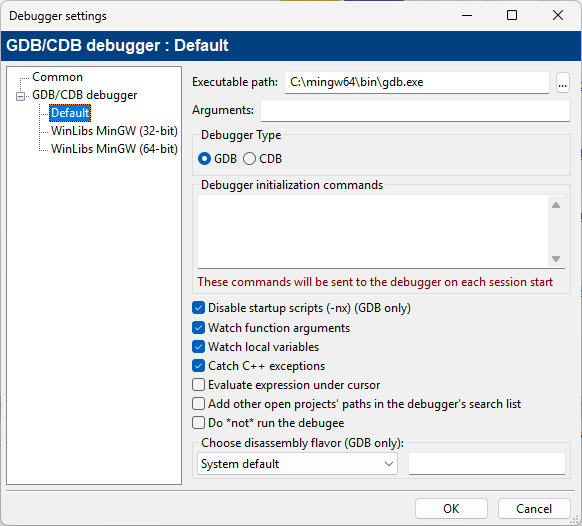
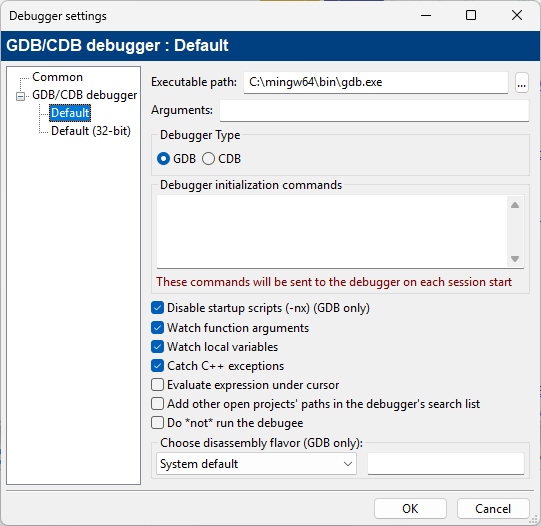
Updating README.

diff --git a/README.md b/README.md
@@ -6,11 +6,11 @@
 
 [DreamSDK](https://dreamsdk.org "DreamSDK") is a modern, ready-to-use environment for the [Sega Dreamcast](https://en.wikipedia.org/wiki/Dreamcast) development, designed for the **Microsoft Windows** platform. It's a package composed by a lot of pre-compiled tools; and Code::Blocks is a nice IDE which unleash the power of **DreamSDK**.
 
-**This repository hold a special version of the official Code::Blocks 25.03 stable release modified for adding full support of DreamSDK.**
+**This repository hold a special edition of the official Code::Blocks 25.03 stable release modified for adding full support of DreamSDK.**
 
-If you are interested about Code::Blocks but not in Sega Dreamcast development using DreamSDK, you may use the official Code::Blocks release then. But if you are interested in Sega Dreamcast development using DreamSDK AND regular development, you can use this special edition of Code::Blocks without any issue, as the changes performed in this fork are not destructive, they only applies in DreamSDK profile.
+If you are interested about Code::Blocks but not in Sega Dreamcast development using DreamSDK, you may use the official Code::Blocks release then. But if you are interested in Sega Dreamcast development using DreamSDK, and at the same time, you are interested in regular development, you can use this special edition of Code::Blocks without any issue, as the changes performed in this fork are not destructive, they only applies in DreamSDK profile.
 
-Notables changes of this special release of **Code::Blocks** includes:
+Notables changes of this special edition of **Code::Blocks** includes:
 
 * New compiler/options file (`dc-gcc`) which specify the `GNU GCC Compiler for Sega Dreamcast` compiler.
 * The `compiler` and `debugger` plugins have been patched to run the loader (i.e. `dc-tool`) before running the target.
@@ -30,8 +30,10 @@ In summary, the goal of this repository is to generate the following packages:
 - `.\packager\dist\codeblocks-25.03-dreamsdk-addon-bin-x86.7z` for 32-bit;
 - `.\packager\dist\codeblocks-25.03-dreamsdk-addon-bin-x64.7z` for 64-bit.
 
-This package will be embedded in the **Code::Blocks Patcher for DreamSDK** (`codeblocks-patcher.exe`).
+These packages will be embedded in the **Code::Blocks Patcher for DreamSDK** (`codeblocks-patcher.exe`).
 This patcher is available in the [Code::Blocks Patcher for DreamSDK](https://github.com/dreamsdk/codeblocks-patcher) repository.
+
+This documents assumes that you're using a 64-bit Windows. 64-bit Windows can build 32-bit binaries as well.
 
 ## Prerequisites
 
@@ -49,7 +51,7 @@ These **are not** provided in this repository but could be easily downloaded:
 - [7-Zip](http://www.7-zip.org).
 - [Boost 1.87.0](http://www.boost.org/users/history/version_1_87_0.html).
 - [Code::Blocks](https://www.codeblocks.org) (**yes, for building Code::Blocks you will need Code::Blocks**).
-- [DreamSDK](https://www.dreamsdk.org) (this is not required for building Code::Blocks but will be for testing the special release that we will build using this repository).
+- [DreamSDK](https://www.dreamsdk.org) (this is not required for building Code::Blocks but will be for testing the special edition that we will build using this repository).
 
 ### Install WinLibs toolchains
 
@@ -61,15 +63,16 @@ Just unzip the 2 WinLibs toolchains in the drive root, usually `C:\`:
 
 1. Make sure `zip` and `upx` are available in your `PATH` variable.
 2. Install [7-Zip](http://www.7-zip.org) using the default settings and make sure `7z` is available in your `PATH` variable.
-3. Download [Code::Blocks](https://www.codeblocks.org) without the embedded compiler, as we will use our own. Install it with the default settings. It's easiest to install Code::Blocks in 64-bit if you plan to compile the 64-bit version (i.e., `codeblocks-25.03-setup.exe`); do the same for the 32-bit version (i.e., `codeblocks-25.03-32bit-setup.exe`), although it's not required. This document will assume you'll follow this rule.
-4. Install [DreamSDK](https://www.dreamsdk.org) using the default settings.
+3. Download [Code::Blocks](https://www.codeblocks.org) without the embedded compiler, as we will use our own (i.e., `codeblocks-25.03-setup.exe` for 64-bit or `codeblocks-25.03-32bit-setup.exe` for 32-bit). Install it with the default settings.
+4. Install [DreamSDK](https://www.dreamsdk.org) using the default settings (i.e., it needs to be installed in `C:\DreamSDK`).
 
 ### Building wxMSW
 
 After installing all the prerequisites, you need to build **wxWidgets for Windows**, i.e. **wxMSW**. You only need to do that once; fortunately because this process is really very long.
 
-1. Open the `.\wxMSW\build.ini` file and adapt it as needed.
-2. Double-click on the `.\wxMSW\build.cmd` file.
+1. Copy the `.\wxMSW\build.template.ini` and name it `build.ini`.
+2. Open the `.\wxMSW\build.ini` file and adapt it as needed.
+3. Double-click on the `.\wxMSW\build.cmd` file.
 
 The `.\wxMSW\bin` directory will be created, that will contains both `debug` and `release` wxWidgets for Windows builds, both on 32-bit and 64-bit flavours.
 
@@ -77,7 +80,7 @@ The `.\wxMSW\bin` directory will be created, that will contains both `debug` and
 
 Boost is used for some plugins in Code::Blocks, for example for the [Nassi–Shneiderman](https://wiki.codeblocks.org/index.php/NassiShneiderman_plugin) plugin.
 
-This section explains how to install Boost for Code::Blocks; and it assumes that the 64-bit version is the one that will be built.
+This section explains how to install Boost for Code::Blocks.
 
 1. Unzip [boost 1.87.0](http://www.boost.org/users/history/version_1_87_0.html). The location where Boost is unzipped is called officially `$BOOST_ROOT`. Usually, `$BOOST_ROOT` will be set as `C:\Program Files\boost\boost_1_87_0`, but it could be `C:\boost_1_87_0` or whatever you want.
 2. Open a Windows Command prompt.
@@ -91,21 +94,23 @@ This section explains how to install Boost for Code::Blocks; and it assumes that
 		bootstrap gcc
 		b2 install --toolset=gcc "--prefix=%CODEBLOCKS_ROOT%" boost.stacktrace.from_exception=off
 
-After running those commands, Boost is indeed installed. Now we need to configure Code::Blocks IDE, as explained below.
+After running those commands, Boost is indeed installed. If using a 64-bit Windows, it will be installed for both 64-bit and 32-bit (as using the WinLibs 64-bit toolchain allow to build both CPU architectures), and of course if you compiled under a 32-bit Windows, only 32-bit has been built. Now we need to configure Code::Blocks IDE, as explained below.
 
 ### Configuring Code::Blocks IDE
 
 To build **Code::Blocks** you will indeed need **Code::Blocks**.
 Install the IDE without the embedded MinGW compiler (as it isn't needed) then unzip both WinLibs toolchains if not already done (see above). Now, it's necessary to configure Debuggers and Compilers in Code::Blocks.
 
-As always, this section assumes that you are setting up things for 64-bit, but adjust the settings if necessary.
+As always, this section assumes that you are setting up things on 64-bit Windows, but adjust the settings if necessary.
 
 #### Configure Debuggers in Code::Blocks
 
 1. Select the **Settings** > **Debugger** menu item in Code::Blocks.
 2. Click on **GDB/CDB debugger** then **Default**.
-3. In Executable path, input the correct GNU Debugger (GDB) binary: `C:\mingw64\bin\gdb.exe`
-4. Click **OK**.
+3. In **Executable path**, input the correct GNU Debugger (GDB) binary: `C:\mingw64\bin\gdb.exe`
+4. Select the **GDB/CDG debugger** then click on **Create config**. Enter the name `Default (32-bit)` and click **OK**.
+5. In **Executable path**, input: `C:\mingw32\bin\gdb.exe`.
+4. Click **OK** to close the **Debugger settings** window.
 
 Result:
 
@@ -115,9 +120,13 @@ Result:
 
 #### Configure Compilers in Code::Blocks
 
+The Code::Blocks project is expecting to use the `GNU GCC Compiler` profile for 64-bit project, while the `GNU GCC Compiler (32-bit)` profile would be used for 32-bit Windows.
+Please note, the `GNU GCC Compiler (32-bit)` is not the official compiler expected by the Code::Blocks 32-bit source, but it make things easier as we can build both 64-bit and 32-bit Code::Blocks binaries on a single machine like this.
+
+Let's configure the 64-bit profile, `GNU GCC Compiler`:
 1. Select the **Settings** > **Compiler** menu item in Code::Blocks.
 2. Select the **GNU GCC Compiler (default)** profile in the list if not already done.
-3. Click on **Toolchain eXecutables** and input `C:\mingw64` in **Compiler's installation directory**.
+3. Click on **Toolchain executables** and input `C:\mingw64` in **Compiler's installation directory**.
 4. In the **Program files** sub-tab, input the following:
     - **C compiler:** `x86_64-w64-mingw32-gcc.exe`
     - **C++ compiler:** `x86_64-w64-mingw32-g++.exe`
@@ -143,6 +152,15 @@ Result:
 
 ![Compiler Settings / Compiler Flags in Code::Blocks](./resources/readme/compiler2.png)
 
+Now it's time to create the 32-bit profile, named `GNU GCC Compiler (32-bit)`:
+7. In the **Selected compiler**, make sure to select the `GNU GCC Compiler` we just configured earlier.
+8. Click on **Copy**. In the box, enter the following name by replacing the `Copy of GNU GCC Compiler` by `GNU GCC Compiler (32-bit)`. Click on **OK**. Validate the warning displayed now.
+9. Go to **Toolchain executables** and change the **Compiler's installation directory**: `C:\mingw32`.
+10. In the **Program files** sub-tab:
+    - Change the executables prefixes: `x86_64` needs to be replaced by `i686` (i.e., `x86_64-w64-mingw32-gcc.exe` becomes `i686-w64-mingw32-gcc.exe`).
+    - **Debugger**: Select `GDB/CDB debugger: Default (32-bit)`
+    - You don't have to update **Resource compiler** and **Make program**.    	
+
 You can now validate the **Compiler settings** dialog by clicking **OK**.
 
 #### Global Variables configuration
@@ -154,7 +172,7 @@ Start **Code::Blocks** then open the `.\codeblocks\codeblocks\src\CodeBlocks_wx3
 As always in this document, we will consider that you want to build the 64-bit release, so we will open the `CodeBlocks_wx32_64.workspace` file. This will open the `CodeBlocks Workspace wx3.2.x (64 bit)` workspace in your Code::Blocks IDE.
 
 The **Global Variables** window should be shown automatically, if not, select the **Settings** > **Global Variables** menu item in Code::Blocks. Select (or create) the following variables:
-- For the `wx32_64` variable: 
+- For the `wx32_64` variable (`wx32` for 32-bit release):
     - In the `base` field, enter `${root}\wxMSW\bin\${arch}\release`, where `${root}` is the directory path where this repository is stored and `${arch}` will be `x86` or `x64` (e.g. `C:\codeblocks\wxMSW\bin\x64\release` if you cloned this in `C:\codeblocks`).
 	- In the `include` field, enter `${root}\wxMSW\bin\${arch}\release\include` (e.g., `C:\codeblocks-25.03\wxMSW\bin\x64\release\include`)
 	- In the `lib` field, enter `${root}\wxMSW\bin\${arch}\release\lib` (e.g., `C:\codeblocks-25.03\wxMSW\bin\x64\release\lib`)
@@ -191,7 +209,7 @@ Again, this part of the document assumes that 64-bit Code::Blocks will be built 
 3. Rebuild the [the whole workspace](http://wiki.codeblocks.org/index.php/Installing_Code::Blocks_from_source_on_Windows). Basically, you may right-click in the `CodeBlocks Workspace wx3.2.x (64 bit)` root node and select **Rebuild workspace**.
 4. The debug build is stored in `.\codeblocks\src\devel32_64`. 
 
-You will have to copy the wxMSW libraries now, but this will be done only once (or as soon as you have to rebuild wxMSW for some reason). Copy the `wxmsw32u_gcc_custom.dll` and `wxmsw32u_gl_gcc_custom.dll` files in the `.\codeblocks\src\devel32_64` directory. If you are using Debug release of wxMSW, then of course you will copy the `wxmsw32ud_gcc_custom.dll` and `wxmsw32ud_gl_gcc_custom.dll` files instead.
+You will have to check and copy the wxMSW libraries now if not already done, but this will be done only once (or as soon as you have to rebuild wxMSW for some reason). From the `.\wxMSW\bin` appropriate directory, copy the `wxmsw32u_gcc_custom.dll` and `wxmsw32u_gl_gcc_custom.dll` files in the `.\codeblocks\src\devel32_64` directory if they aren't copied already. If you are using Debug release of wxMSW, then of course you will copy the `wxmsw32ud_gcc_custom.dll` and `wxmsw32ud_gl_gcc_custom.dll` files instead.
 
 ### Running and debugging your Code::Blocks build
 
@@ -238,9 +256,9 @@ select the **GNU GCC Compiler for Sega Dreamcast** profile and click on **Reset 
 4. Rebuild the [the whole workspace](http://wiki.codeblocks.org/index.php/Installing_Code::Blocks_from_source_on_Windows). Basically, you may right-click in the `CodeBlocks Workspace wx3.2.x (64 bit)` root node and select **Rebuild workspace**.
 5. Run the `.\codeblocks\src\update32_64.bat` file.
 
-The release build is stored in `.\codeblocks\src\output32_64`.
+The release build is stored in `.\codeblocks\src\output32_64` (`output32` for 32-bit).
 
-**Note:** The wxMSW libraries are automatically copied from `devel32_64`, so you don't have to manually copy these libraries.
+**Note:** The wxMSW libraries are automatically copied from `devel32_64` (`devel32` for 32-bit), so you don't have to manually copy these libraries.
 
 ### Making the final package that will be embedded in Code::Blocks Partcher for DreamSDK
 
@@ -249,6 +267,11 @@ After building the **Code::Blocks** release, you need to build the package that 
 1. Follow the instructions for building a Release build (see above), if not already done.
 2. Go to the `.\packager` directory.
 3. From there, run the `mkpkg.cmd` file.
+4. All packages are now available in `.\packager\dist` directory.
+
+The next step is now outside of this repository: you have to copy all packages generated into the [Code::Blocks Patcher for DreamSDK repository](https://github.com/dreamsdk/codeblocks-patcher), in the following directory: `.\codeblocks-patcher\src\engine\embedded\packages\`. You may now build/rebuild the **Code::Blocks Patcher for DreamSDK** project starting from this point.
+
+**Et voilà!**
 
 ## FAQ
 
